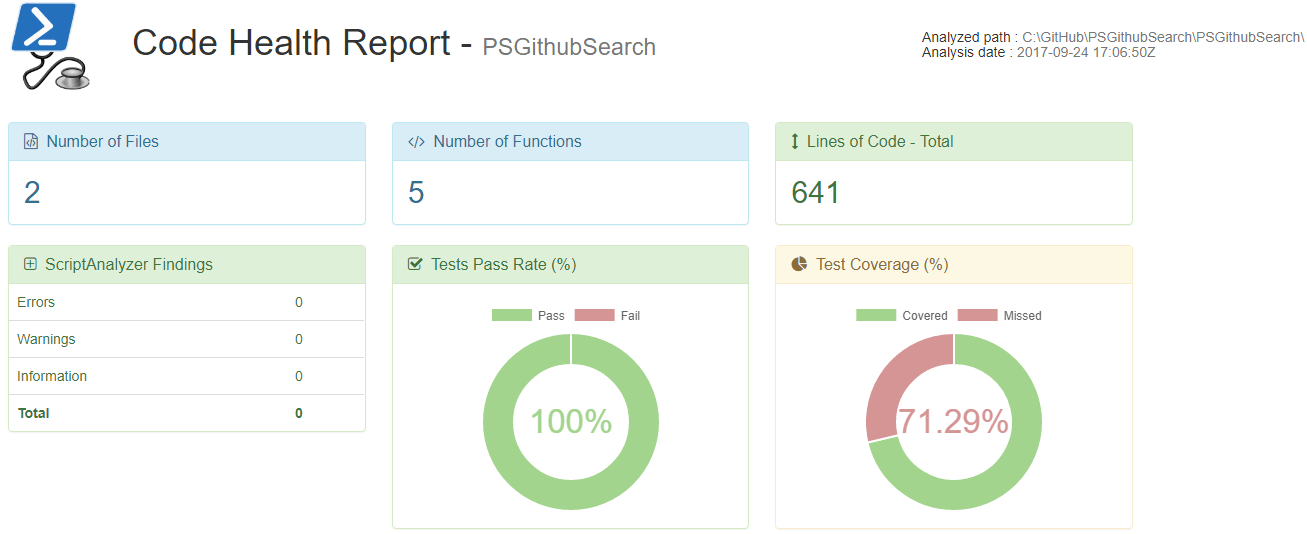
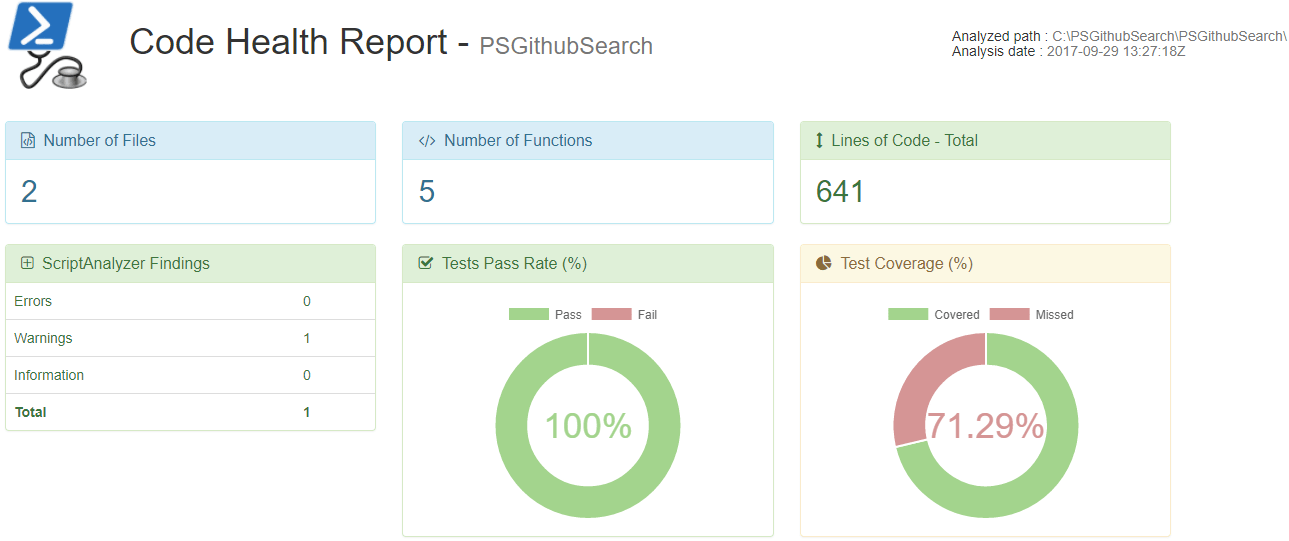
powershell-code-quality-pscodehealth line 268

diff --git a/assets/html/healthreport.html b/assets/html/healthreport.html
@@ -188,8 +188,8 @@
                 </div>
                 <div class="col-sm-4 col-md-5 col-lg-4 right-header">
                     <h5>
-                        Analyzed path :<span class="right-header-data"> C:\GitHub\PSGithubSearch\PSGithubSearch\</span><br>
-                        Analysis date :<span class="right-header-data"> 2017-09-24 17:06:50Z</span>
+                        Analyzed path :<span class="right-header-data"> C:\PSGithubSearch\PSGithubSearch\</span><br>
+                        Analysis date :<span class="right-header-data"> 2017-09-29 13:27:18Z</span>
                     </h5>
                 </div>
             </div>
@@ -246,9 +246,9 @@
                             </div>
                             <table class="table">
                                 <tr class="text-success"><td>Errors</td><td>0</td></tr>
-                                <tr class="text-success"><td>Warnings</td><td>0</td></tr>
+                                <tr class="text-success"><td>Warnings</td><td>1</td></tr>
                                 <tr class="text-success"><td>Information</td><td>0</td></tr>
-                                <tr class="text-success"><td>Total</td><td>0</td></tr>
+                                <tr class="text-success"><td>Total</td><td>1</td></tr>
                             </table>
                         </div>
                     </div>
@@ -282,7 +282,7 @@
                                 <h3 class="panel-title"><i class="fa fa-plus-square-o" aria-hidden="true">&nbsp;</i> ScriptAnalyzer Findings - Total</h3>
                             </div>
                             <div class="panel-body">
-                                <h2>0</h2>
+                                <h2>1</h2>
                             </div>
                         </div>
                     </div>
@@ -302,7 +302,7 @@
                                 <h3 class="panel-title"><i class="fa fa-exclamation-triangle" aria-hidden="true">&nbsp;</i> ScriptAnalyzer Warnings</h3>
                             </div>
                             <div class="panel-body">
-                                <h2>0</h2>
+                                <h2>1</h2>
                             </div>
                         </div>
                     </div>
@@ -314,7 +314,7 @@
                                 <h3 class="panel-title"><i class="fa fa-bar-chart" aria-hidden="true">&nbsp;</i> ScriptAnalyzer Findings - Average</h3>
                             </div>
                             <div class="panel-body">
-                                <h2>0</h2>
+                                <h2>0.2</h2>
                             </div>
                         </div>
                     </div>
@@ -369,8 +369,20 @@
                                     </tr>
                                     <tr>
                                         <td>Find-GitHubIssue</td>
-                                        <td class="success">0</td>
-                                        <td class=""></td>
+                                        <td class="success">1</td>
+                                        <td class="warning">
+                                            <button type="button" class="btn btn-warning btn-sm cell-expand-collapse"> Expand</button>
+                                            <table>
+                                                 <tr>
+                                                    <td class="warning cell-largeContent">ScriptName : PSGithubSearch.psm1<br>
+Line (in the function) : 1<br>
+Severity                      : Warning<br>
+RuleName                      : PSShouldProcess<br>
+Message                       : 'Find-GitHubIssue' calls ShouldProcess/ShouldContinue but does not have the ShouldProcess attribute.<br>
+                                                    </td>
+                                                </tr>
+                                             </table>
+                                        </td>
                                         <td class="success">True</td>
                                     </tr>
                                     <tr>

diff --git a/_drafts/powershell-code-quality-pscodehealth.md b/_drafts/powershell-code-quality-pscodehealth.md
@@ -147,17 +147,17 @@ C:\PSGithubSearch> $HealthReport | Select-Object -Property '*' -Exclude 'Functio
 
 
 ReportTitle                   : PSGithubSearch
-ReportDate                    : 2017-09-24 16:41:26Z
+ReportDate                    : 2017-09-29 13:23:30Z
 AnalyzedPath                  : C:\PSGithubSearch\PSGithubSearch\
 Files                         : 2
 Functions                     : 5
 LinesOfCodeTotal              : 641
 LinesOfCodeAverage            : 128.2
-ScriptAnalyzerFindingsTotal   : 0
+ScriptAnalyzerFindingsTotal   : 1
 ScriptAnalyzerErrors          : 0
-ScriptAnalyzerWarnings        : 0
+ScriptAnalyzerWarnings        : 1
 ScriptAnalyzerInformation     : 0
-ScriptAnalyzerFindingsAverage : 0
+ScriptAnalyzerFindingsAverage : 0.2
 FunctionsWithoutHelp          : 0
 NumberOfTests                 : 27
 NumberOfFailedTests           : 0
@@ -188,11 +188,86 @@ The **Summary** tab is just an overview, the sidebar provides access to more spe
 
 ![HTML report - Sidebar](https://raw.githubusercontent.com/MathieuBuisson/PSCodeHealth/master/Examples/SidebarScreenshot.png)  
 
-To see this in action, you can play with [a live version of this report]({{ "/assets/html/healthreport.html" | absolute_url }}).  
+To see it in action, you can play with [a live version of this report]({{ "/assets/html/healthreport.html" | absolute_url }}).  
 
+## Interpreting PSCodeHealth's HTML report  
 
 The report's color-coding is straightforward : green means good, yellow means warning and red means danger.  
 It is designed to provide at-a-glance information about which area(s)/aspect(s) of the code need attention or improvement.  
+
+### Style & Best Practices tab  
+
+The section of the report focuses on `PSScriptAnalyzer` findings and comment-based help.  
+There is only 1 finding in the whole project so this is fine.  
+
+### Maintainability tab  
+
+#### Functions length  
+
+The average number of lines of code per function (128.2) shows up in red, so it must be bad.  
+How bad ? The compliance rule for this metric gives us a good idea :  
+
+```powershell
+C:\PSGithubSearch> Get-PSCodeHealthComplianceRule -MetricName 'LinesOfCodeAverage'
+
+Metric Name                   Metric Group       Warning          Fail Threshold  Higher Is
+                                                 Threshold                        Better
+-----------                   ------------       ---------------- --------------  ---------------
+LinesOfCodeAverage            OverallMetrics     30               60              False
+```
+
+So this means that this metric starts to show up in yellow from 30 (lines of code per function) and in red from 60. So here, this metric is over twice the "*danger*" threshold ! This needs improvement, a lot of it.  
+
+Also, the *per function information* table tells us which particular function(s) we should focus on to improve the project's overall maintainability. 
+We can see that the most serious offender is `Find-GitHubIssue` with **219 lines of code**. Ouch !  
+
+#### Complexity  
+
+We can see that the maximum cyclomatic complexity is green, which is good, but the average is yellow. Why ?  
+
+```powershell
+C:\PSGithubSearch> Get-PSCodeHealthComplianceRule -MetricName 'ComplexityHighest','ComplexityAverage'
+
+Metric Name                   Metric Group       Warning          Fail Threshold  Higher Is
+                                                 Threshold                        Better
+-----------                   ------------       ---------------- --------------  ---------------
+ComplexityHighest             OverallMetrics     30               60              False
+ComplexityAverage             OverallMetrics     15               30              False
+```
+
+At 15.2, the average complexity is slightly above the *warning* threshold, but still, this is worth looking into. Once again, the *per function information* table points at `Find-GitHubIssue` as the main offender, so we definitely need to take a hard look at this function.  
+
+#### Nesting depth  
+
+Regarding nesting depth, all functions in the project are green, so we are good.  
+
+### Tests tab  
+
+#### Tests failures  
+
+All 27 unit tests in this project have passed, so let's move along, there's nothing to see here.  
+
+#### Tests code coverage  
+
+These tests exercise 71.29 % of the project's code. The panel containing the overall "*Test Coverage*" chart is yellow which means this metric is at *warning* level. For more information, we can look at what the compliance rule for this metric has to say about that :  
+
+```powershell
+C:\PSGithubSearch> Get-PSCodeHealthComplianceRule -MetricName 'TestCoverage' -SettingsGroup 'OverallMetrics'
+
+Metric Name                   Metric Group       Warning          Fail Threshold  Higher Is
+                                                 Threshold                        Better
+-----------                   ------------       ---------------- --------------  ---------------
+TestCoverage                  OverallMetrics     80               70              True
+```
+
+This yellow is actually dark orangish because the tests code coverage is very close to the *danger* zone.  
+
+Coverage can vary widely from 1 function to another so it is probably a good idea to look at the *Per Function Information* table to see if there are low-hanging fruits (functions for which we could easily and significantly increase the test coverage).  
+
+`Get-NumberOfPage` has only 41 % of its code exercised by unit tests. This is low, but I'm not too worried about it because it is just a private helper function and it is short and simple.  
+`Find-GitHubIssue` on the other hand is one of the 4 public functions in the module. 65 % test coverage is fairly low, but does this mean it is a low-hanging fruit ? Not necessarily because, as we have seen above, this function is huge and has a high cyclomatic complexity. Cyclomatic complexity has a strong **inverse** correlation with testability, because it tells the number of code paths that the tests need to covered.  
+
+#### Missed commands  
 
 
 
